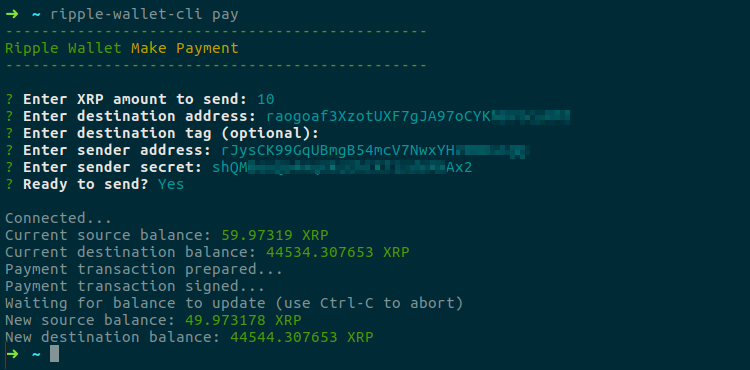
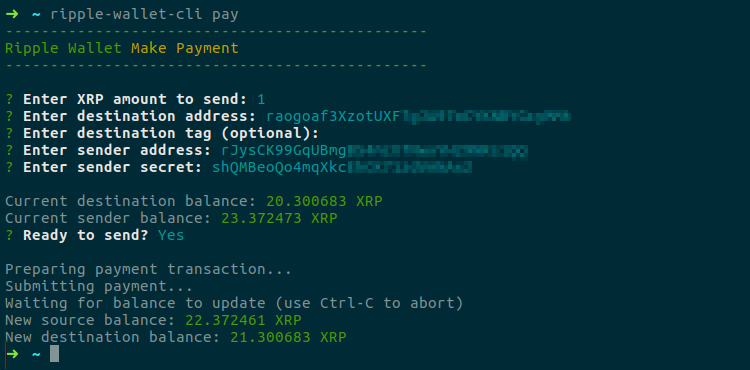
Moves the "Ready to send?" question after showing the current balances

diff --git a/scripts/pay.js b/scripts/pay.js
@@ -99,20 +99,10 @@ const questions = [
         return 'Invalid secret'
       }
     }
-  },
-  {
-    type: 'confirm',
-    name: 'sure',
-    default: false,
-    message: 'Ready to send?'
   }
 ]
 
 inquirer.prompt(questions).then((answers) => {
-  if (!answers.sure) {
-    process.exit()
-  }
-
   const instructions = {
     maxLedgerVersionOffset: 5,
     maxFee
@@ -137,42 +127,58 @@ inquirer.prompt(questions).then((answers) => {
   }
 
   api.connect().then(() => {
-
-    console.log("\nConnected...")
+    if (answers.sourceAddress === answers.destinationAddress) {
+      fail('Sender address not be the same as the destination address')
+    }
+    console.log()
 
     return Promise.all([
       api.getBalances(answers.sourceAddress, { currency: 'XRP' }),
       api.getBalances(answers.destinationAddress, { currency: 'XRP' })
         .catch(handleActNotFound)
     ]).then((currentBalances) => {
-
-      const sourceBalance = _get(currentBalances, '[0][0].value', 0)
-      console.log('Current source balance:', chalk.green(sourceBalance, 'XRP'))
-      if (sourceBalance - answers.amount < 20) {
-        fail('There should be at least 20 XRP remaining at the sender address')
-      }
-
       const destinationBalance = _get(currentBalances, '[1][0].value', 0)
+
       console.log('Current destination balance:', chalk.green(destinationBalance, 'XRP'))
       if (destinationBalance + answers.amount < 20) {
         fail('Send at least 20 XRP to create the destination address')
       }
 
-      return api.preparePayment(answers.sourceAddress, payment, instructions).then(prepared => {
+      const sourceBalance = _get(currentBalances, '[0][0].value', 0)
+      console.log('Current sender balance:', chalk.green(sourceBalance, 'XRP'))
+      if (sourceBalance - answers.amount < 20) {
+        fail('There should be at least 20 XRP remaining at the sender address')
+      }
 
-        console.log('Payment transaction prepared...')
+      inquirer.prompt([
+        {
+          type: 'confirm',
+          name: 'sure',
+          default: false,
+          message: 'Ready to send?'
+        }
+      ]).then((confirm) => {
+        if (!confirm.sure) {
+          process.exit()
+        }
 
-        const { signedTransaction } = api.sign(prepared.txJSON, answers.sourceSecret)
+        console.log("\nPreparing payment transaction...")
 
-        console.log('Payment transaction signed...')
+        return api.preparePayment(answers.sourceAddress, payment, instructions).then(prepared => {
 
-        return api.submit(signedTransaction).then(() => {
+          const { signedTransaction } = api.sign(prepared.txJSON, answers.sourceSecret)
 
-          console.log('Waiting for balance to update (use Ctrl-C to abort)')
+          console.log('Submitting payment...')
 
-          waitForBalancesUpdate(answers.sourceAddress, answers.destinationAddress, sourceBalance)
+          return api.submit(signedTransaction).then(() => {
 
-        }, fail)
+            console.log('Waiting for balance to update (use Ctrl-C to abort)')
+
+            waitForBalancesUpdate(answers.sourceAddress, answers.destinationAddress, sourceBalance)
+
+          }, fail)
+
+        })
 
       })
 
